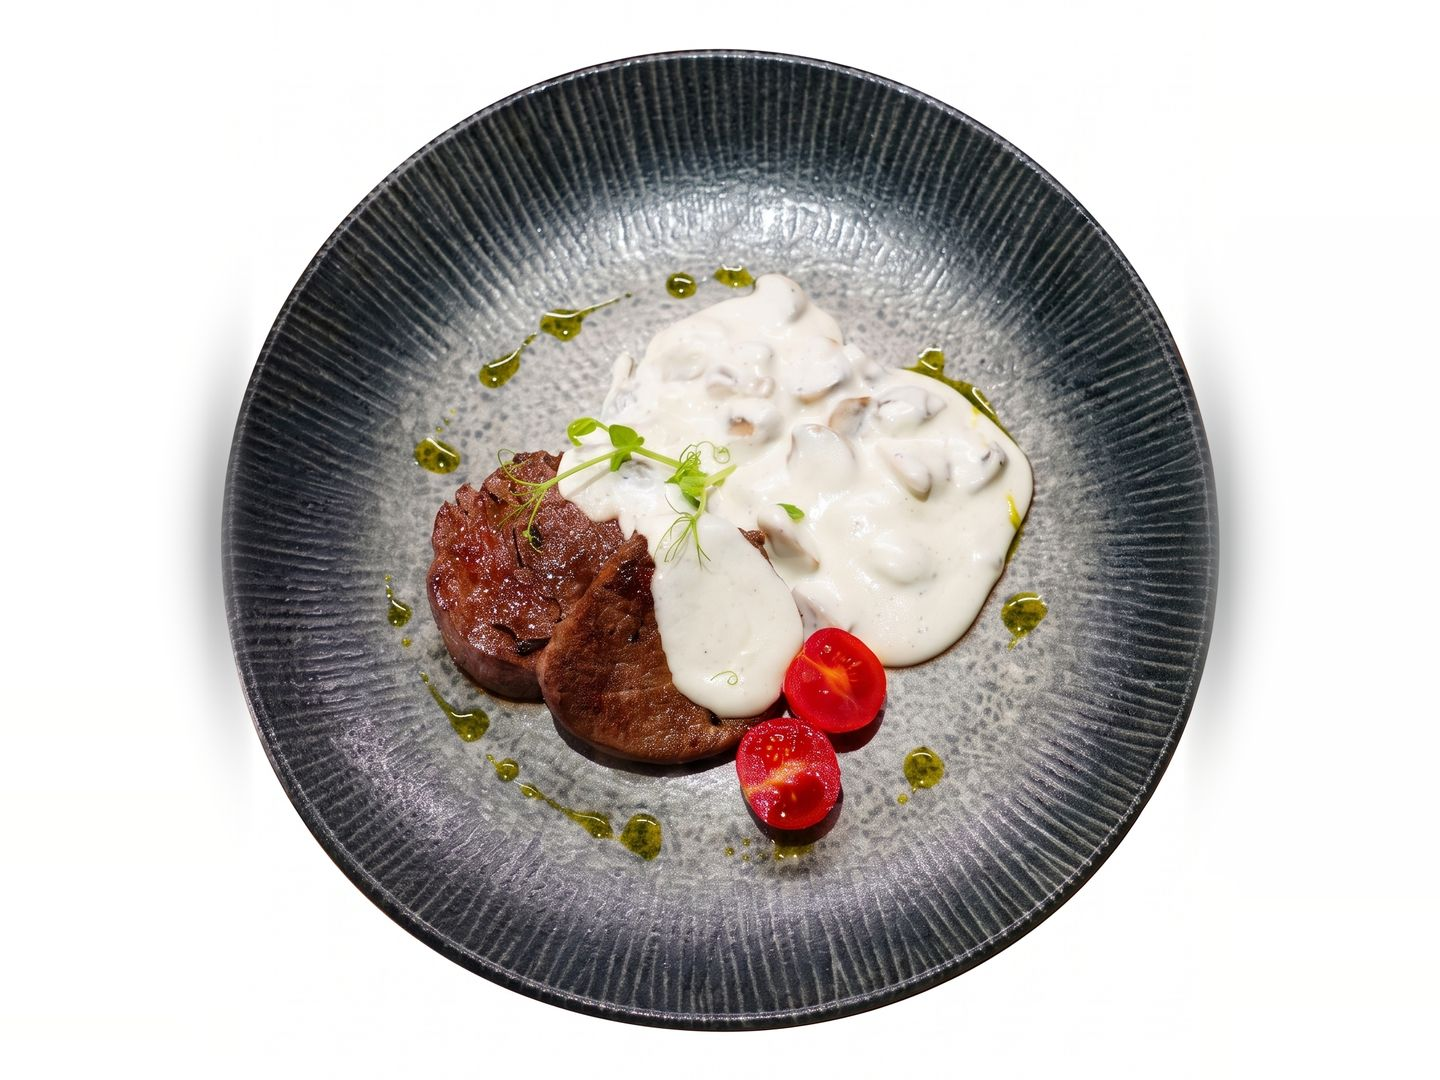
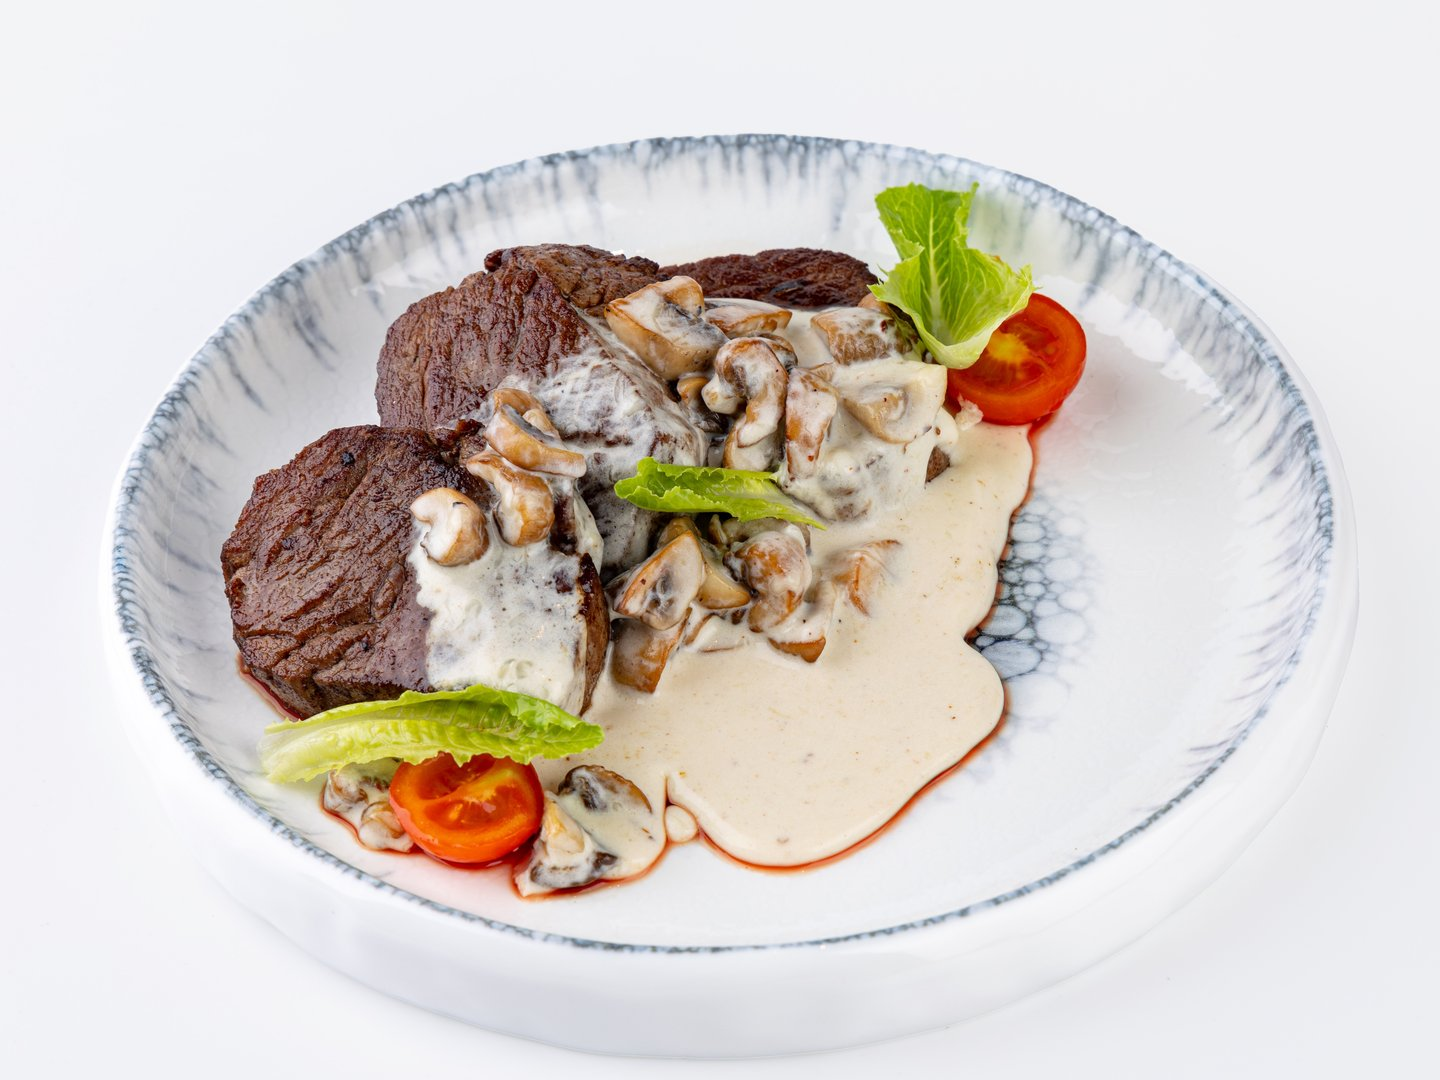
feat: new white-background photos for 36 dishes (16 replaced, 20 new: desserts, pastas, coffee, lemonades, tea)

diff --git a/index.html b/index.html
@@ -824,7 +824,7 @@ html[lang="ru"] .m-name { font-size: 26px; }
     "Salmon Benedict",
     "Brioche, cured salmon, soft-boiled egg, avocado, cream cheese, hollandaise"
    ],
-   "photo": "3d508621"
+   "photo": "1323aeb5"
   },
   "eel-benedict": {
    "price": "87 000",
@@ -847,7 +847,7 @@ html[lang="ru"] .m-name { font-size: 26px; }
     "Yogurt Bowl",
     "Yogurt, cottage cheese, granola, banana, blueberries, raspberries"
    ],
-   "photo": "aca0b976"
+   "photo": "613a7469"
   },
   "palinger-brunch": {
    "price": "90 000",
@@ -871,7 +871,7 @@ html[lang="ru"] .m-name { font-size: 26px; }
     "Dutch Scramble",
     "Eggs, spinach, tomato, Gouda, avocado, cilantro, rye bread"
    ],
-   "photo": "3233e6c0"
+   "photo": "f357d642"
   },
   "english-breakfast": {
    "price": "75 000",
@@ -883,7 +883,7 @@ html[lang="ru"] .m-name { font-size: 26px; }
     "English Breakfast",
     "Fried eggs, sausages, mushrooms, grilled tomato, rocket, rye bread, sour cream"
    ],
-   "photo": "ee5b4565"
+   "photo": "8d222684"
   },
   "tomato-bruschetta": {
    "price": "75 000",
@@ -907,7 +907,7 @@ html[lang="ru"] .m-name { font-size: 26px; }
     "Cottage Cheese Pancakes with Fruit",
     "Cottage cheese pancakes, banana, raspberries, custard, mint"
    ],
-   "photo": "6949482a"
+   "photo": "18f94a67"
   },
   "chuka-salad": {
    "price": "95 000",
@@ -919,7 +919,7 @@ html[lang="ru"] .m-name { font-size: 26px; }
     "Chuka Salad with Eel",
     "Eel, chuka seaweed, orange, avocado, cherry tomatoes, rocket, teriyaki sauce, sesame"
    ],
-   "photo": "79e65d6b"
+   "photo": "63b5fa22"
   },
   "tomato-mozzarella": {
    "price": "73 000",
@@ -931,7 +931,7 @@ html[lang="ru"] .m-name { font-size: 26px; }
     "Tomatoes with Mini Mozzarella",
     "Pink & cherry tomatoes, spinach, mini mozzarella, pesto, pine nuts, balsamic"
    ],
-   "photo": "063e969c"
+   "photo": "78c2410f"
   },
   "stracciatella": {
    "price": "87 000",
@@ -943,7 +943,7 @@ html[lang="ru"] .m-name { font-size: 26px; }
     "Stracciatella Salad",
     "Stracciatella, pink tomato, apricot, avocado, romaine, grain mustard"
    ],
-   "photo": "90f15466"
+   "photo": "3a7504f9"
   },
   "palinger-burger": {
    "price": "65 000 / 70 000",
@@ -970,7 +970,7 @@ html[lang="ru"] .m-name { font-size: 26px; }
     "Smash Burger",
     "Two smashed beef patties, cheddar, mushrooms, caramelised onion, pickles, French fries"
    ],
-   "photo": "5d21f22c"
+   "photo": "49f38a76"
   },
   "medallion-burger": {
    "price": "65 000",
@@ -994,7 +994,7 @@ html[lang="ru"] .m-name { font-size: 26px; }
     "Fries",
     "French fries, salt"
    ],
-   "photo": "48d30b4b"
+   "photo": "ae11bcc9"
   },
   "country-potatoes": {
    "price": "21 000",
@@ -1006,7 +1006,7 @@ html[lang="ru"] .m-name { font-size: 26px; }
     "Country-Style Potatoes",
     "Potato wedges, grated Parmesan, spices"
    ],
-   "photo": "8d55e8eb"
+   "photo": "036de04c"
   },
   "atlantic-soup": {
    "price": "67 000",
@@ -1018,7 +1018,7 @@ html[lang="ru"] .m-name { font-size: 26px; }
     "Atlantic Soup",
     "Salmon, shrimp, bell pepper, celery, broccoli, fish broth, coconut milk"
    ],
-   "photo": "b8ab76f3"
+   "photo": "9cdbe731"
   },
   "cheese-soup": {
    "price": "57 000",
@@ -1030,7 +1030,7 @@ html[lang="ru"] .m-name { font-size: 26px; }
     "Cheese Cream Soup",
     "Melted cheese, cream cheese, potato, cream, eel broth, grissini"
    ],
-   "photo": "bffc58cb"
+   "photo": "65fe3db5"
   },
   "salmon-steak": {
    "price": "165 000",
@@ -1042,7 +1042,7 @@ html[lang="ru"] .m-name { font-size: 26px; }
     "Salmon Steak",
     "Salmon fillet 180 g, asparagus, broccoli, cherry tomatoes, rocket, mixed greens, lemon dressing"
    ],
-   "photo": "94bae410"
+   "photo": "66cedd08"
   },
   "beef-medallions": {
    "price": "120 000",
@@ -1054,7 +1054,7 @@ html[lang="ru"] .m-name { font-size: 26px; }
     "Beef Medallions",
     "Beef tenderloin, creamy mushroom sauce, garlic"
    ],
-   "photo": "59ee2ea0"
+   "photo": "479ed5c3"
   },
   "pasta-alfredo": {
    "price": "78 000",
@@ -1066,7 +1066,7 @@ html[lang="ru"] .m-name { font-size: 26px; }
     "Pasta Alfredo",
     "Spaghetti, chicken breast, mushrooms, cream sauce, garlic, onion, Parmesan"
    ],
-   "photo": "8a32602d"
+   "photo": "43799bed"
   },
   "pasta-carbonara": {
    "price": "97 000",
@@ -1077,7 +1077,8 @@ html[lang="ru"] .m-name { font-size: 26px; }
    "en": [
     "Pasta Carbonara",
     "Spaghetti, beef bacon, garlic oil, butter, egg yolk, Parmesan"
-   ]
+   ],
+   "photo": "332c9191"
   },
   "seafood-pasta": {
    "price": "105 000",
@@ -1088,7 +1089,8 @@ html[lang="ru"] .m-name { font-size: 26px; }
    "en": [
     "Seafood Pasta",
     "Spaghetti, salmon, shrimp, bell pepper, butter, lemon, parsley, onion, Parmesan"
-   ]
+   ],
+   "photo": "c683b636"
   },
   "pancakes": {
    "price": "59 000",
@@ -1103,7 +1105,8 @@ html[lang="ru"] .m-name { font-size: 26px; }
    "variant": {
     "ru": "обычные / мини",
     "en": "regular / mini"
-   }
+   },
+   "photo": "66a3abe5"
   },
   "churros": {
    "price": "65 000 / 85 000",
@@ -1118,7 +1121,8 @@ html[lang="ru"] .m-name { font-size: 26px; }
    "en": [
     "Churros",
     "Crispy churros, cinnamon sugar, chocolate sauce"
-   ]
+   ],
+   "photo": "42a284f7"
   },
   "crepes": {
    "price": "69 000",
@@ -1133,7 +1137,8 @@ html[lang="ru"] .m-name { font-size: 26px; }
    "variant": {
     "ru": "фисташковый / шоколадный",
     "en": "pistachio / chocolate"
-   }
+   },
+   "photo": "2470ac09"
   },
   "espresso": {
    "price": "21 000 / 27 000",
@@ -1222,7 +1227,8 @@ html[lang="ru"] .m-name { font-size: 26px; }
    "en": [
     "Honey Raf",
     ""
-   ]
+   ],
+   "photo": "28ff257c"
   },
   "cup-brulee": {
    "price": "41 000",
@@ -1233,7 +1239,8 @@ html[lang="ru"] .m-name { font-size: 26px; }
    "en": [
     "Cup Brûlée",
     ""
-   ]
+   ],
+   "photo": "29e73ca8"
   },
   "condensed-cappuccino": {
    "price": "41 000",
@@ -1244,7 +1251,8 @@ html[lang="ru"] .m-name { font-size: 26px; }
    "en": [
     "Condensed Milk Cappuccino",
     ""
-   ]
+   ],
+   "photo": "ac9734bb"
   },
   "cinnabon-coffee": {
    "price": "43 000",
@@ -1255,7 +1263,8 @@ html[lang="ru"] .m-name { font-size: 26px; }
    "en": [
     "Cinnabon Coffee",
     ""
-   ]
+   ],
+   "photo": "8fabf998"
   },
   "frappuccino": {
    "price": "57 000",
@@ -1314,7 +1323,8 @@ html[lang="ru"] .m-name { font-size: 26px; }
    "variant": {
     "ru": "0,5 л / 1 л",
     "en": "0.5 L / 1 L"
-   }
+   },
+   "photo": "3afe452d"
   },
   "lem-lime-cherry": {
    "price": "53 000 / 87 000",
@@ -1329,7 +1339,8 @@ html[lang="ru"] .m-name { font-size: 26px; }
    "variant": {
     "ru": "0,5 л / 1 л",
     "en": "0.5 L / 1 L"
-   }
+   },
+   "photo": "a3bc31df"
   },
   "lem-raspberry-passion": {
    "price": "57 000 / 97 000",
@@ -1344,7 +1355,8 @@ html[lang="ru"] .m-name { font-size: 26px; }
    "variant": {
     "ru": "0,5 л / 1 л",
     "en": "0.5 L / 1 L"
-   }
+   },
+   "photo": "c450ae0a"
   },
   "lem-mango-passion": {
    "price": "57 000 / 97 000",
@@ -1359,7 +1371,8 @@ html[lang="ru"] .m-name { font-size: 26px; }
    "variant": {
     "ru": "0,5 л / 1 л",
     "en": "0.5 L / 1 L"
-   }
+   },
+   "photo": "bd6614fd"
   },
   "mojito-classic": {
    "price": "47 000 / 77 000",
@@ -1374,7 +1387,8 @@ html[lang="ru"] .m-name { font-size: 26px; }
    "variant": {
     "ru": "0,5 л / 1 л",
     "en": "0.5 L / 1 L"
-   }
+   },
+   "photo": "73382c4e"
   },
   "mojito-strawberry": {
    "price": "51 000 / 83 000",
@@ -1389,7 +1403,8 @@ html[lang="ru"] .m-name { font-size: 26px; }
    "variant": {
     "ru": "0,5 л / 1 л",
     "en": "0.5 L / 1 L"
-   }
+   },
+   "photo": "00cc04d3"
   },
   "lem-berry-mix": {
    "price": "53 000 / 87 000",
@@ -1404,7 +1419,8 @@ html[lang="ru"] .m-name { font-size: 26px; }
    "variant": {
     "ru": "0,5 л / 1 л",
     "en": "0.5 L / 1 L"
-   }
+   },
+   "photo": "30bf597b"
   },
   "fresh-orange": {
    "price": "77 000",
@@ -1536,7 +1552,8 @@ html[lang="ru"] .m-name { font-size: 26px; }
    "en": [
     "Ginger Milk Tea",
     ""
-   ]
+   ],
+   "photo": "19255ff1"
   },
   "tea-moroccan": {
    "price": "69 000",
@@ -1558,7 +1575,8 @@ html[lang="ru"] .m-name { font-size: 26px; }
    "en": [
     "Berry Tea",
     ""
-   ]
+   ],
+   "photo": "d242dc1b"
   },
   "tea-mango-pineapple": {
    "price": "71 000",
@@ -1580,7 +1598,8 @@ html[lang="ru"] .m-name { font-size: 26px; }
    "en": [
     "Citrus Tea",
     ""
-   ]
+   ],
+   "photo": "56de2440"
   },
   "tea-sea-buckthorn": {
    "price": "73 000",
@@ -1591,7 +1610,8 @@ html[lang="ru"] .m-name { font-size: 26px; }
    "en": [
     "Sea Buckthorn & Raspberry Tea",
     ""
-   ]
+   ],
+   "photo": "0d990c86"
   },
   "coca-cola": {
    "price": "25 000",
